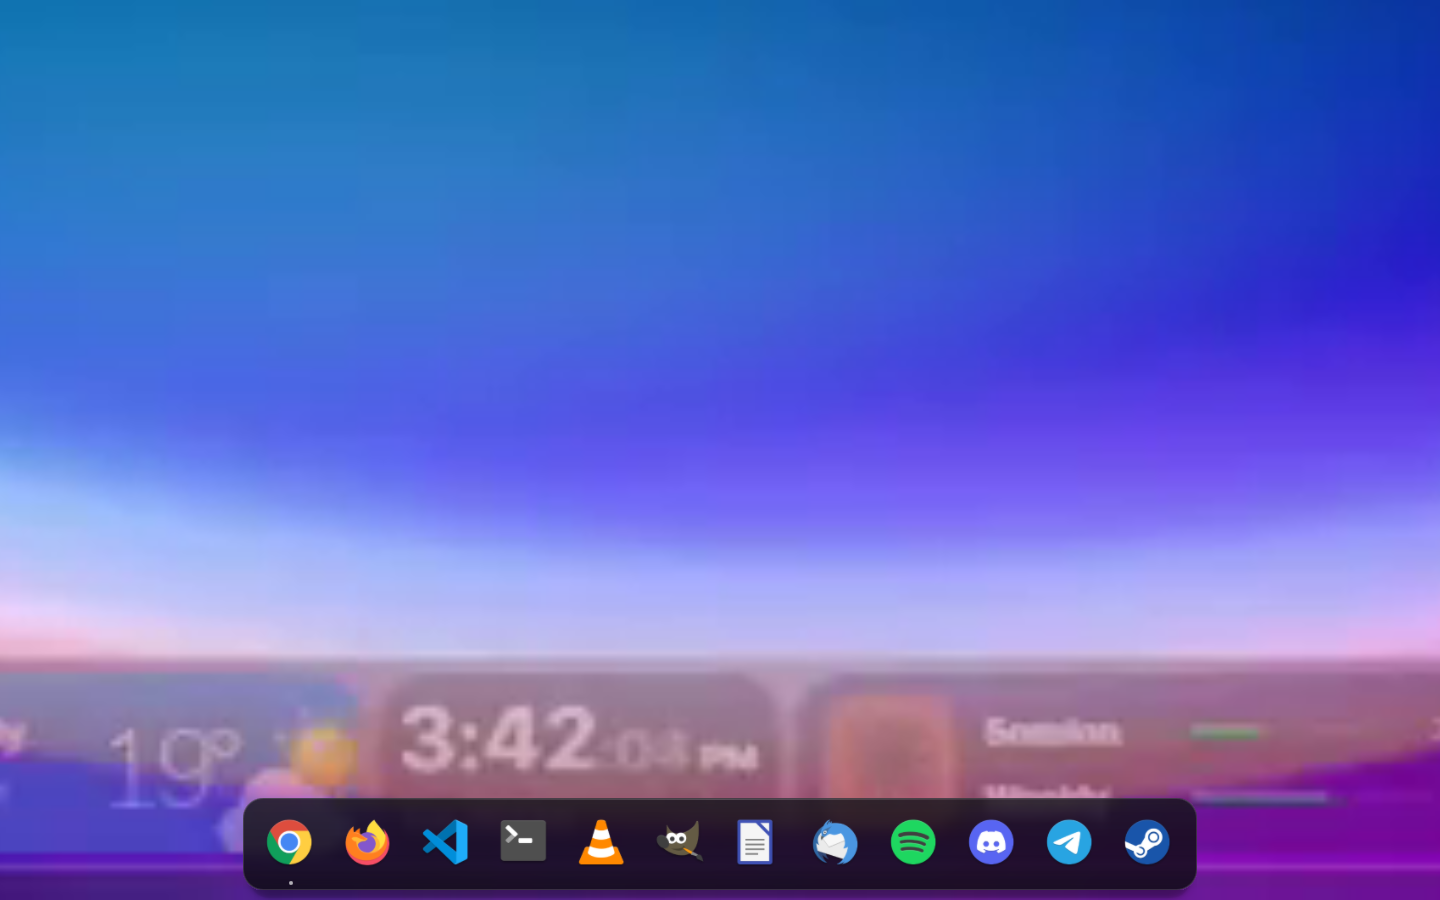
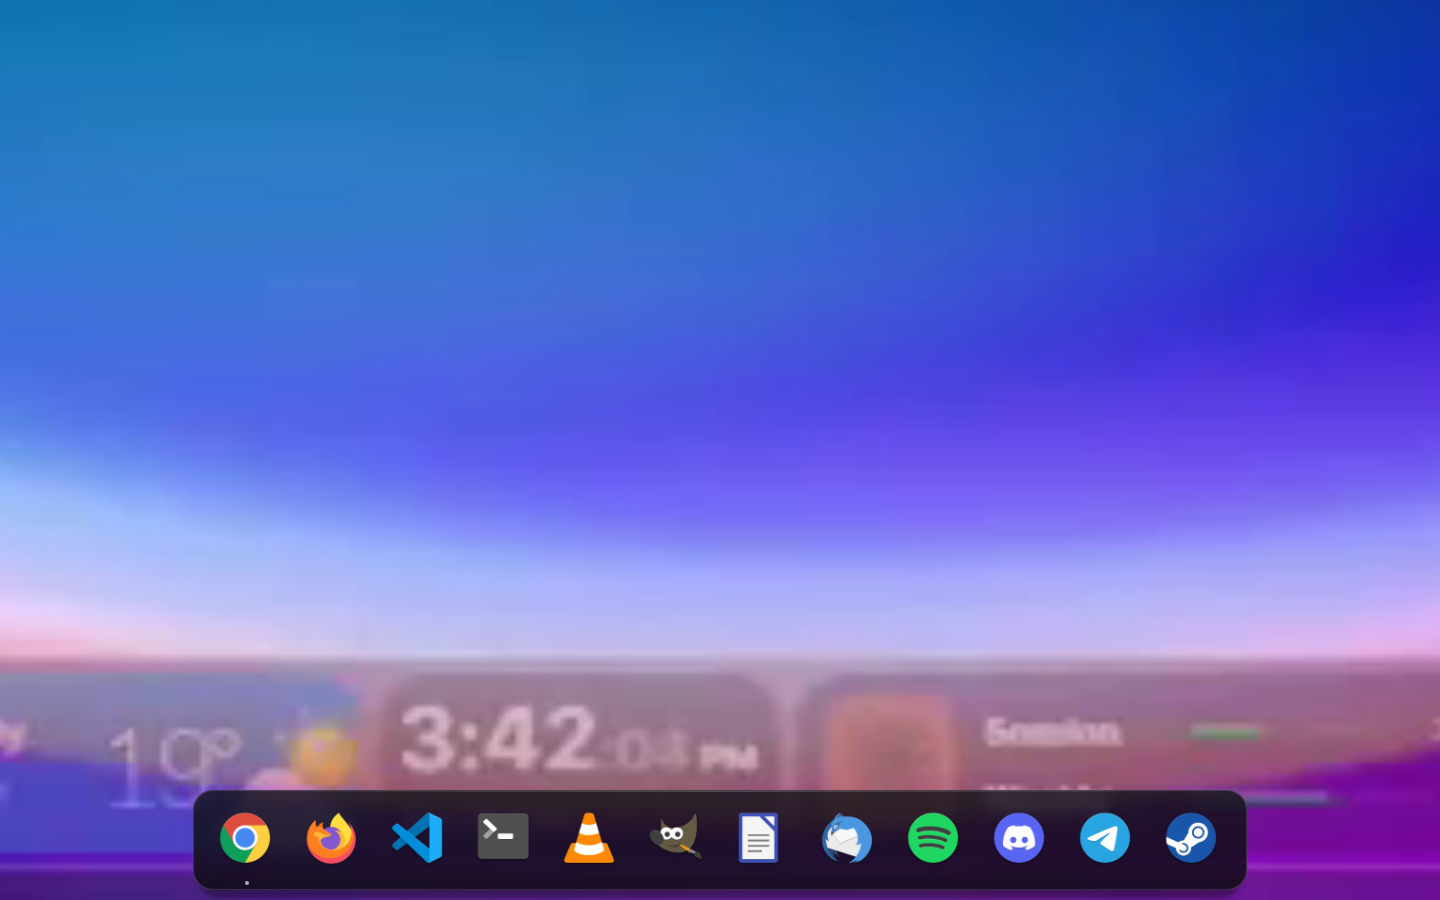
Dock: ikonlar 76 px, panel 100 px
- iconSize 68 -> 76; panel 92 -> 100 px, yan bosluk 16, aralik 10.
- Ikon yuvalari kapali; ikonlar yalnizca seffaf PNG + gomulu golge ile duruyor.
- kanit 01-06 ve olcum yeni olculerle yenilendi; bosta %2.0 CPU.

Changed region(s): [[0.125, 0.8711, 0.875, 1.0]]

diff --git a/qml/Dock.qml b/qml/Dock.qml
@@ -10,12 +10,12 @@ Item {
     property string vurgu: "#8fb4ff"
 
     // Referans olculeri: ikon 56, panel 76, yan 12, ara 8, alt bosluk 10.
-    readonly property real ikonBoyut: ayar ? ayar.iconSize : 68
+    readonly property real ikonBoyut: ayar ? ayar.iconSize : 76
     readonly property real buyutmeCarpan: ayar ? ayar.buyutme : 1.9
     readonly property real bosluk: 10
-    readonly property real yanBosluk: 14
+    readonly property real yanBosluk: 16
     readonly property real icBosluk: Math.round((panelYukseklik - ikonBoyut) / 2)
-    readonly property real panelYukseklik: 92
+    readonly property real panelYukseklik: 100
     readonly property real altPay: 10
     readonly property real hucreYuksekligi: Math.round(ikonBoyut * buyutmeCarpan)
     readonly property real tabanGenislik: ikonSayisi > 0

diff --git a/dock/ana.py b/dock/ana.py
@@ -35,8 +35,8 @@ from .uygulamalar import (
 KOK = Path(__file__).resolve().parent.parent
 
 _ALAN_BOSLUK = 10
-_YAN_BOSLUK = 14
-_PANEL_YUKSEKLIK = 92
+_YAN_BOSLUK = 16
+_PANEL_YUKSEKLIK = 100
 _PANEL_DIKEY_BOSLUK = 12
 _ALT_PAY = 12
 # Pencere opak: buyuyen ikonlar icin panel ustunde pay, golge icin altta 10 px.

diff --git a/dock/ayarlar.py b/dock/ayarlar.py
@@ -7,7 +7,7 @@ from pathlib import Path
 
 VARSAYILAN = {
     "autoHide": False,
-    "iconSize": 68,
+    "iconSize": 76,
     "buyutme": 1.9,
     "kenarBosluk": 10,
     "sabitlenen": [],
